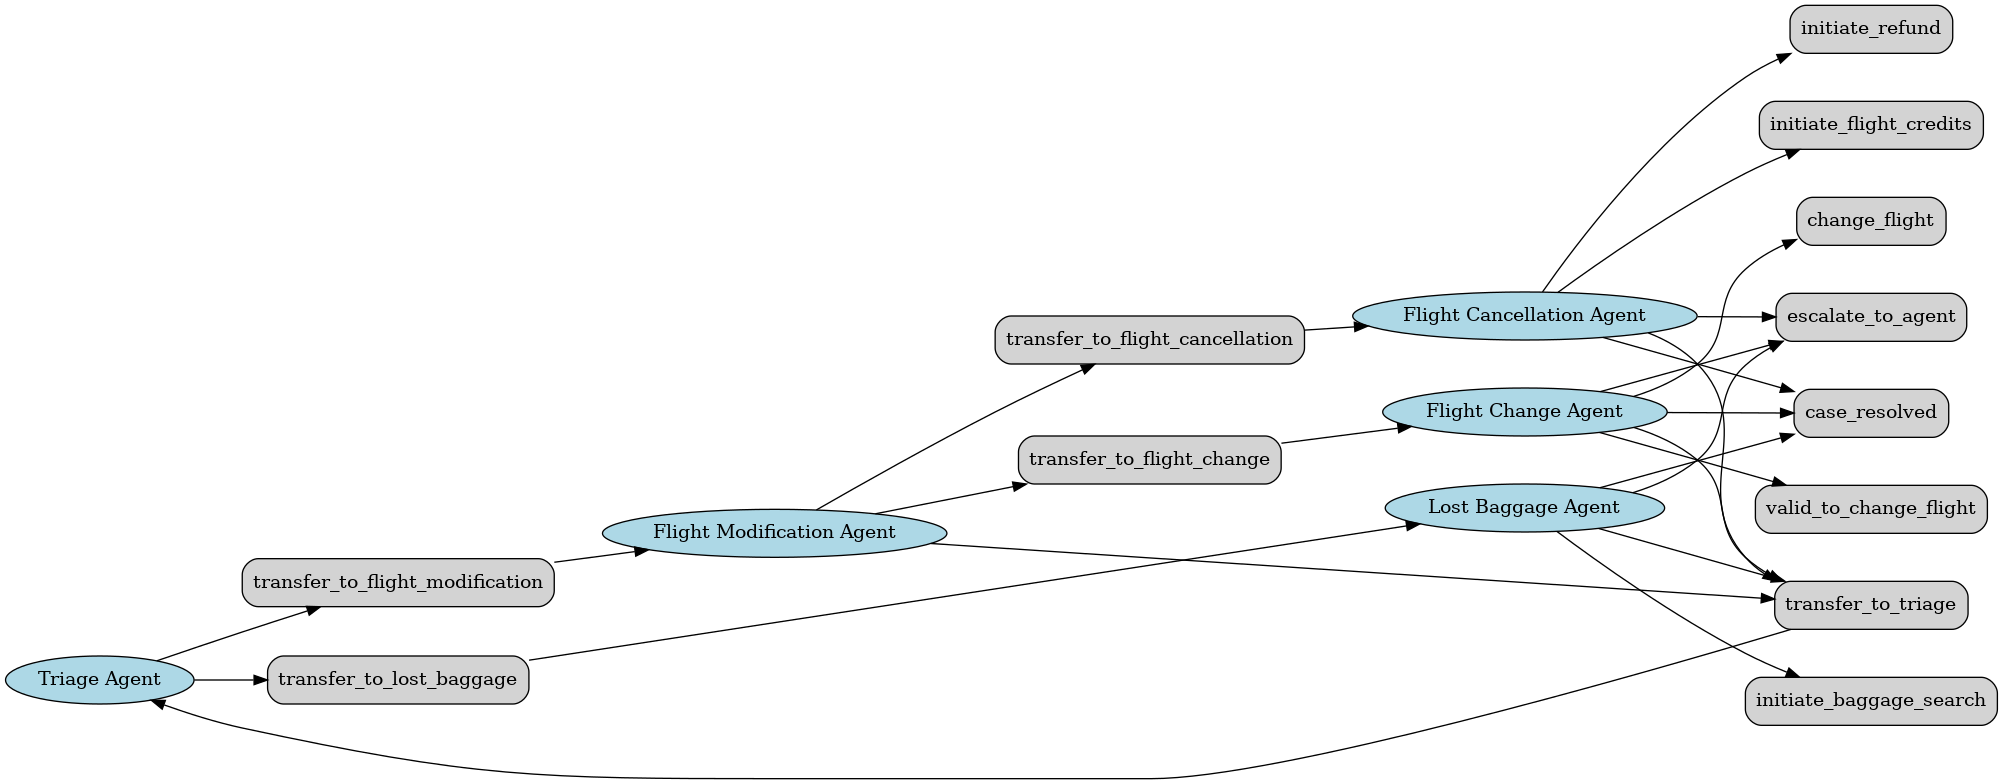
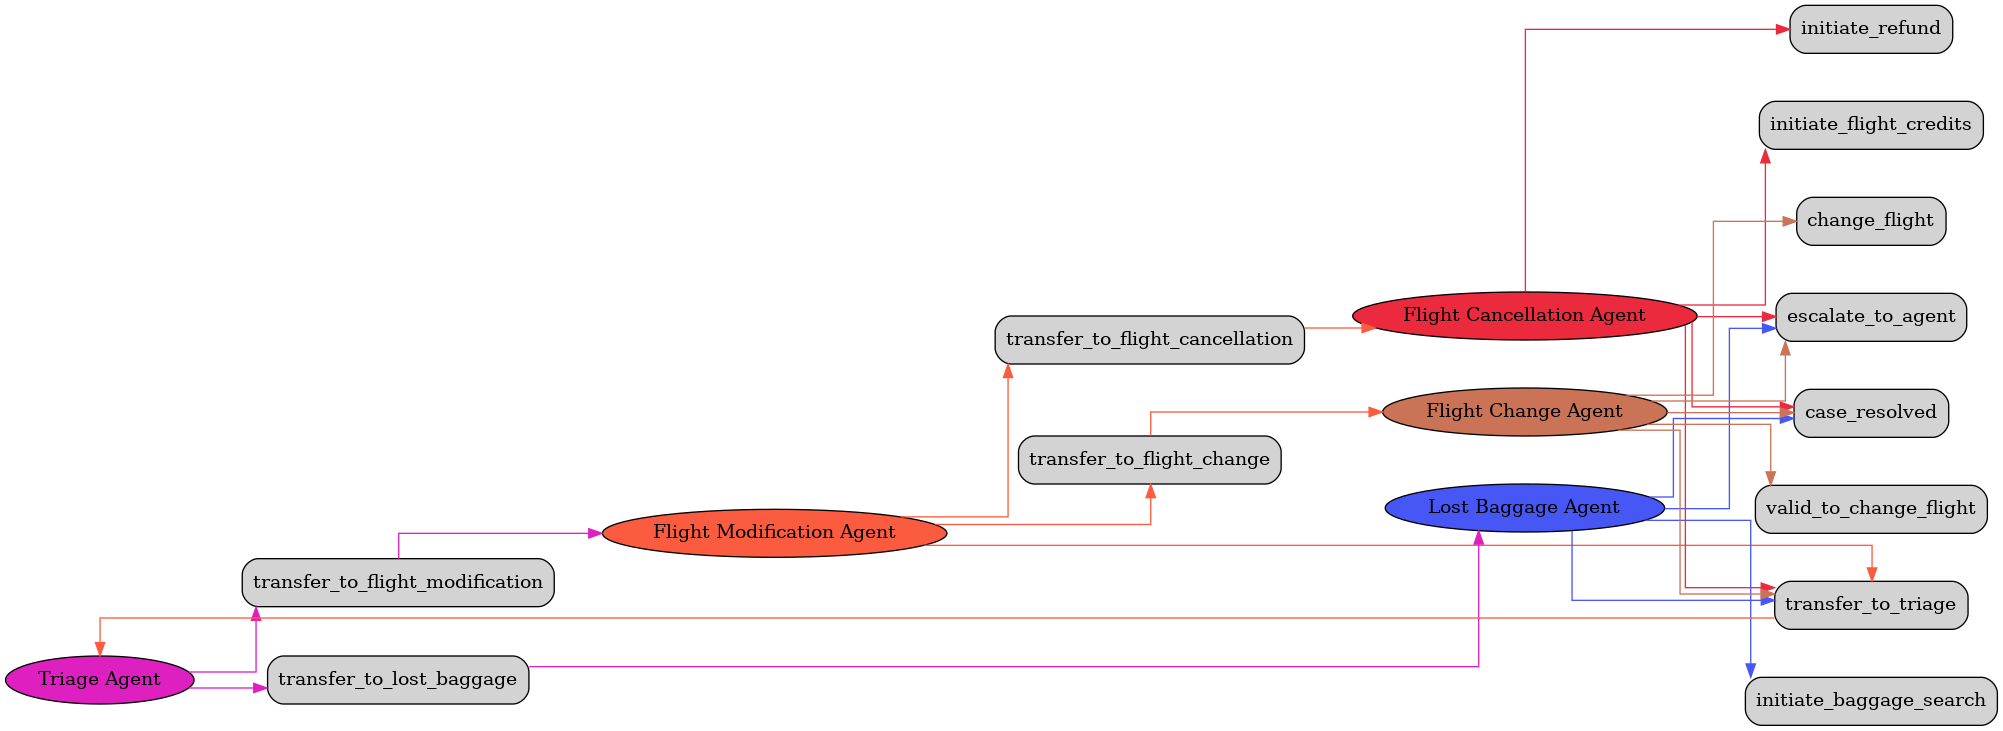
work

diff --git a/swarm/multiagent.py b/swarm/multiagent.py
@@ -103,7 +103,7 @@ class Response(BaseModel):
 
     Attributes:
         messages (List): A list of messages in the response.
-        agent (Optional[Agent]): The agent that generated the response.
+        agent (Optional[Agent]): The Agent we need to transfer to.
         context_variables (dict): Context variables associated with the response.
         tokens_used (int): The number of tokens used in generating the response.
     """
@@ -118,7 +118,7 @@ class Result(BaseModel):
 
     Attributes:
         value (str): The result value as a string.
-        agent (Optional[Agent]): The agent instance, if applicable.
+        agent (Optional[Agent]): The Agent instance returned by a transfer tool, if applicable.
         context_variables (dict): A dictionary of context variables.
     """
     value: str = ""
@@ -167,12 +167,18 @@ def handle_tool_calls(
             )
             continue  # Skip to the next tool call
         args = json.loads(tool_call.function.arguments)  # Parse the function arguments model tools_response JSON
-        debug_print(debug, f"Processing tool call: {name} with arguments {args}")  # Log the tool call processing
         func = function_map[name]  # Retrieve the function object from the map
+        num_args = 0 # Initialize the number of arguments the function accepts to 0
         if callable(func) and hasattr(func, '__code__'):  # Ensure func is callable and has a __code__ attribute
+            num_args = func.__code__.co_argcount # Extract the number of arguments the function accepts
             if __CTX_VARS_NAME__ in func.__code__.co_varnames:  # Check if the function accepts context variables
                 args[__CTX_VARS_NAME__] = context_variables  # Add context variables to the arguments
-        raw_result = function_map[name]()  # Call the function with arguments. TODO: Make it so functions can accepts arguments like normal
+        if not args and num_args == 0: # Use the num_args variable to decide how to call the function
+            debug_print(debug, f"Calling tool: {name} with no arguments")
+            raw_result = func()  # Call the function without arguments
+        else:
+            debug_print(debug, f"Calling tool: {name} with arguments {args}")
+            raw_result = func(args)  # Call the function with arguments
         result: Result = handle_function_result(raw_result, debug)  # Process the function result
         tools_response.messages.append(  # Add the function result to the tools_response messages
             {
@@ -230,9 +236,9 @@ class Swarm:
     This is the current implementation of agent transfer/handover:
     
     1. Call LLM
-    2. LLM responds specifying it wants to use a tool or multiple tools
+    2. LLM responds specifying it wants to use a tool or multiple tools, as well as the parameters to pass to said tool/s
     3. We invoke the LLM's chosen tools and produce a Response object. When initializing this object we set the Agent field to None.
-    For each tool we call, we use the result of the tool call to produce a Result object. Each Result contains a value and a potential Agent. 
+    For each tool we call, we use the result of the tool call to produce a Result object. Each Result contains a value and a potential Agent, if the tool returned one.
     The Response object has a messages field. We use the Result objects to help construct fake "LLM" response messages which we add to the conversation history.
     Each message adheres to the following schema:
     {
@@ -247,21 +253,27 @@ class Swarm:
     7. At this point we'll call the LLM one more time with the new conversation history. At this point no tools will be invoked and
     we'll just receive a normal response from the LLM, which we will go back to the user with. During this call, the LLM will
     have context an all agent transfers and tool calls that have happened, which their resulting values. This gives it all the context
-    it needs to produce a response for the user.
+    it needs to produce a response for the user. 
     
-    TODO: Each agent receives the full conversation history thus far as it is constantly amended to by each agent. The only thing that changes is the system message
-    that the agent receives. This means that agents are potentially receiving unnecessary information from the conversation history in order to complete their task.
-    I need to devise a way in which when we transfer to another agent, it only receives the context it needs from the conversation history, and not the entire thing.
-    This way, we can keep the agent on task and minimize hallucinations. 
+    NOTE: In this design, the user communicates with whatever the active agent is at the time. There isn't a 
+    centralized agent that the user communicates with exclusively and that hands over to other agents with the intentioned that they will
+    relay any information they uncover back to this centralized agent. This approach solves the problem of an agentic system where there is only
+    one agent, which is that above around 5-10 tool options, the agent can begin to make mistakes on which tool to pick and when. With this 
+    multi-agent approach, each agent has a specific domain they work in with a set selection of tools.
     
-    One way to approach this might be having the agents share some overall state, rather than simply amending the conversation history with more and more
-    messages (that includes tools calls, results of tool calls, agent transfer and normal conversation history) like we're doing now, which looks bloated.
-    This state can include any agent transfers, tool calls and their results by agents, as well as the conversation history. This state
-    would also be in chronological order to provide context to the LLM as to when tool calls, agent transfers or normal conversation occurred.
-    This means we essentially provide a timeline to the LLM. In this approach, the user wouldn't be communicating exclusively with the top-level/centralized agent in the conversation, such as a Triage Agent, but rather
-    would be communicating with whatever the active agent is at the time. 
+    TODO: Currently, each agent receives the full conversation history thus far as it is constantly amended to by each agent. The only thing that changes is the system message
+    that each agent receives. This means that agents are potentially receiving unnecessary information from the conversation history in order to complete their task.
+    I need to devise a way in which when we transfer to another agent, it only receives the context it needs and not the conversation history.
+    This way, we can keep each agent on task and minimize hallucinations. 
     
-    However, there is a downside to this approach. Take staff in a store as an example. Let's say a customer walks in a says to the store manager "Hi there, I need to return this device, it doesn't work. Can I get a replacement?".
+    One way to approach this might be having the agents share some overall state, which is similar to what we do now with amending the conversation history with more and more
+    messages (that includes tools calls, results of tool calls, agent transfer and normal conversation history).
+    The difference is this state will be more concentrated and include less bloat, and can include any agent transfers, tool calls and their results by agents, as well as the conversation history. 
+    This state would also be in chronological order to provide context to the LLM as to when tool calls, agent transfers or normal conversation occurred.
+    This means we essentially provide a timeline to the LLM. In this approach, similarly to the current approach, the user wouldn't be communicating exclusively with the top-level/centralized agent 
+    in the conversation, but rather would be communicating with whatever the active agent is at the time. 
+    
+    However, there is a downside to this solution. Take staff in a store as an example. Let's say a customer walks in a says to the store manager "Hi there, I need to return this device, it doesn't work. Can I get a replacement?".
     The store manager analyses the situation and the device, where they concur that the item is indeed damaged, the battery is broken. The store manager decides to hand this over to a supervisor, to see if the purchase is eligible for
     a replacement, or if the only option is a refund. The supervisor doesn't need to know the details of the item and how it's damaged, just that the store manager has asked them to check if the purchase is eligible
     for a replacement or refund, indicating that the store manager has previously checked the item and approved the return. The supervisor performs their checks and determines that the customer can receive a replacement device.
@@ -271,7 +283,7 @@ class Swarm:
     customer initially bought was damaged, which is just unnecessary information and doesn't impact the task of the stock clerk in anyway, other than just overloading it with irrelevant information. 
     It isn't in the best interest of a sub-agent to know the entire context of the session, just the relevant details to ensure the agent stays on task and is as efficient as possible.
     
-    So taking this into account, what is a suitable approach? What agent/s should the user communicate with? How should we construct the context that each sub-agent receives as it is transferred to? 
+    So taking this into account, what is a suitable approach? What agent/s should the user communicate with (centralized vs active agent)? How should we construct the context that each sub-agent receives as it is transferred to? 
     """
     def run(
         self,
@@ -314,10 +326,10 @@ class Swarm:
             )
             history.extend(tools_response.messages)  # Extend history with tool results
             context_variables.update(tools_response.context_variables)  # Update context variables
-            if tools_response.agent and tools_response.agent != active_agent:  # If there's a new agent, and it's different to the current...
+            if tools_response.agent:  # If Response contains an Agent, indicating we've transferred to a new one...
                 active_agent = tools_response.agent  # ...switch to the new agent
 
-        # Keep going until we don't call any more tools, and we break on line 286 above. We'll always have an active_agent.
+        # Keep going until we don't call any more tools, and we break on line 316 above. We'll always have an active_agent.
         # That condition is just there so we continue the loop
         return Response(
             messages=history[init_len:],  # Messages from the initial length of history to the end of the array (i.e, all new messages generated in this interaction)

diff --git a/swarm/visualize.py b/swarm/visualize.py
@@ -1,33 +1,37 @@
+import random
 from graphviz import Digraph
-from examples.airline.configs.agents import triage_agent
+from examples.airline.configs.agents import *
 from swarm.multiagent import Agent
+
+def get_unique_color():
+    return "#{:06x}".format(random.randint(0, 0xFFFFFF))
 
 def visualize_agents(initial_agent: Agent):
     dot = Digraph(graph_attr={
         'rankdir': 'LR',
-        'splines': 'true',
+        'splines': 'ortho',
         'nodesep': '0.5',
         'concentrate': 'true'
     })
     agents = {initial_agent.name: initial_agent}
     agent_queue = [initial_agent]
-    added_function_agent_edges = set()
+    agent_colors = {}
     while agent_queue:
         current_agent = agent_queue.pop(0)
-        dot.node(current_agent.name, current_agent.name, shape='ellipse', style='filled', fillcolor='lightblue')
+        if current_agent.name not in agent_colors:
+            agent_colors[current_agent.name] = get_unique_color()
+        current_color = agent_colors[current_agent.name]
+        dot.node(current_agent.name, current_agent.name, shape='ellipse', style='filled', fillcolor=current_color)
         for function in current_agent.functions:
             function_name = function.__name__
             dot.node(function_name, function_name, shape='box', style='rounded,filled', fillcolor='lightgrey')
-            dot.edge(current_agent.name, function_name)
+            dot.edge(current_agent.name, function_name, color=current_color)
             result = function()
             if isinstance(result, Agent):
                 if result.name not in agents:
                     agents[result.name] = result
                     agent_queue.append(result)
-                function_agent_id = (function_name, result.name)
-                if function_agent_id not in added_function_agent_edges:
-                    dot.edge(function_name, result.name)
-                    added_function_agent_edges.add(function_agent_id)
+                dot.edge(function_name, result.name, color=current_color)
     dot.render('multi_agent_workflow', format='png', cleanup=True)
 
 if __name__ == "__main__":
